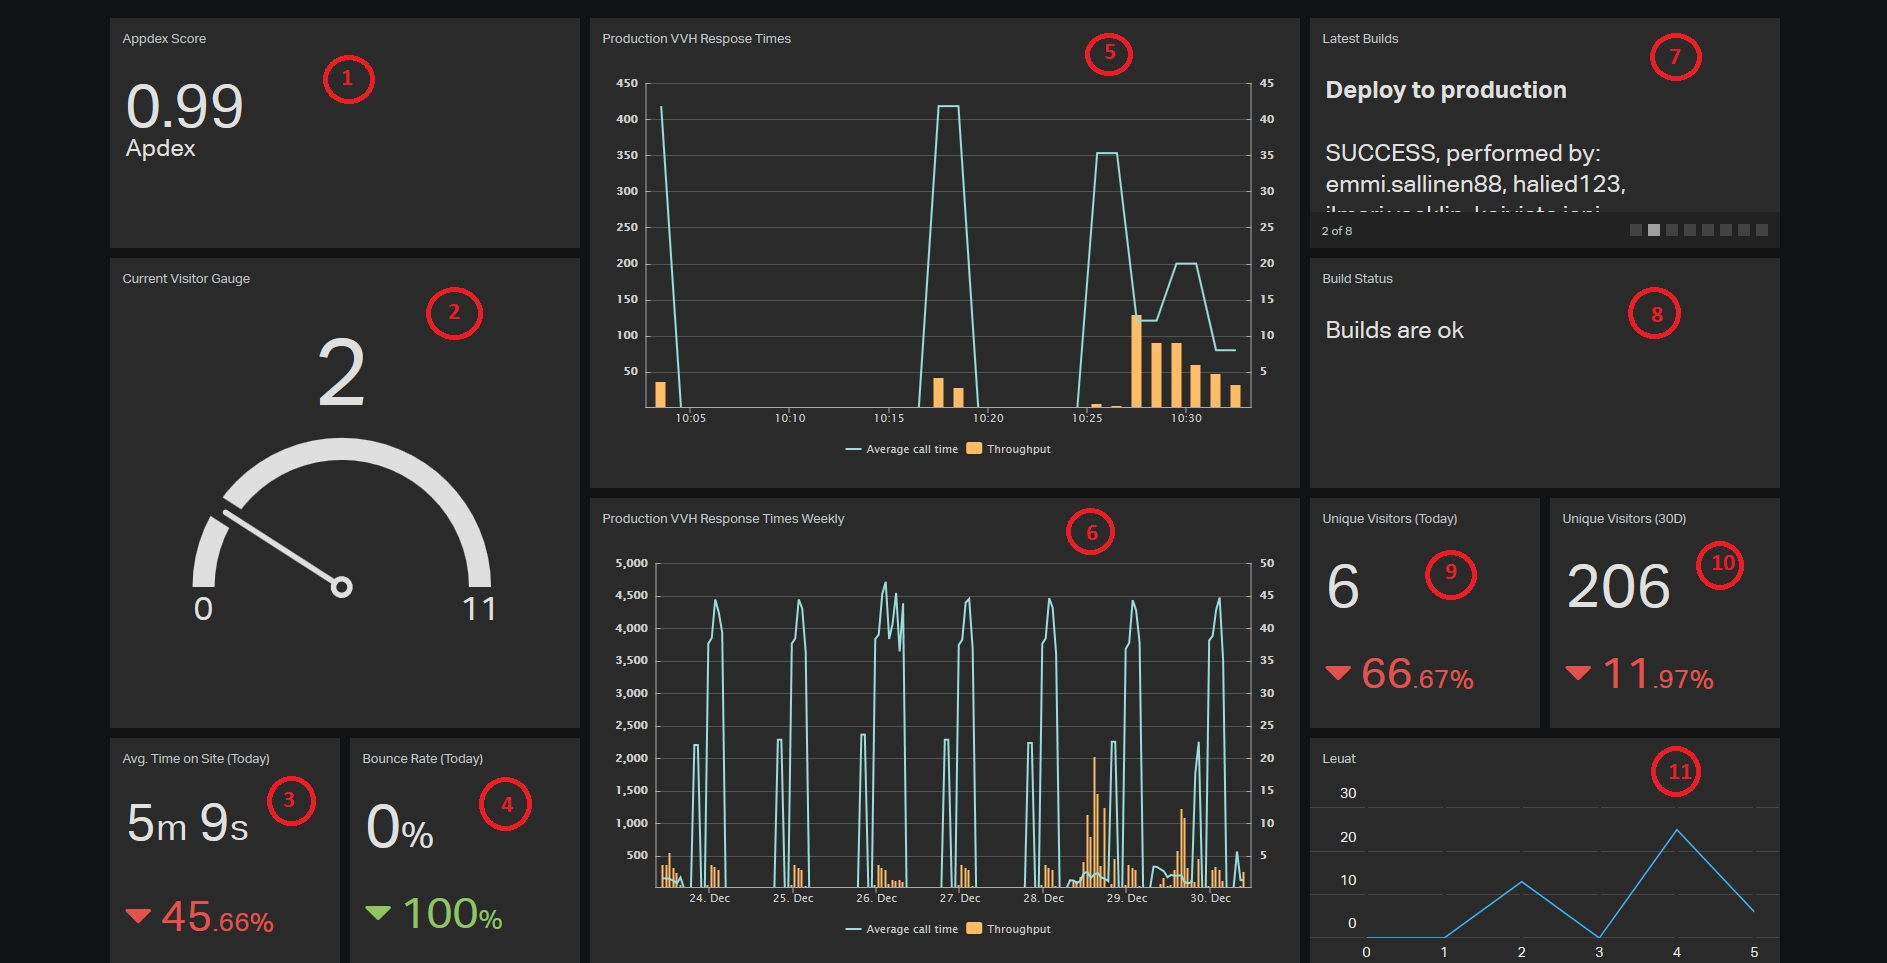
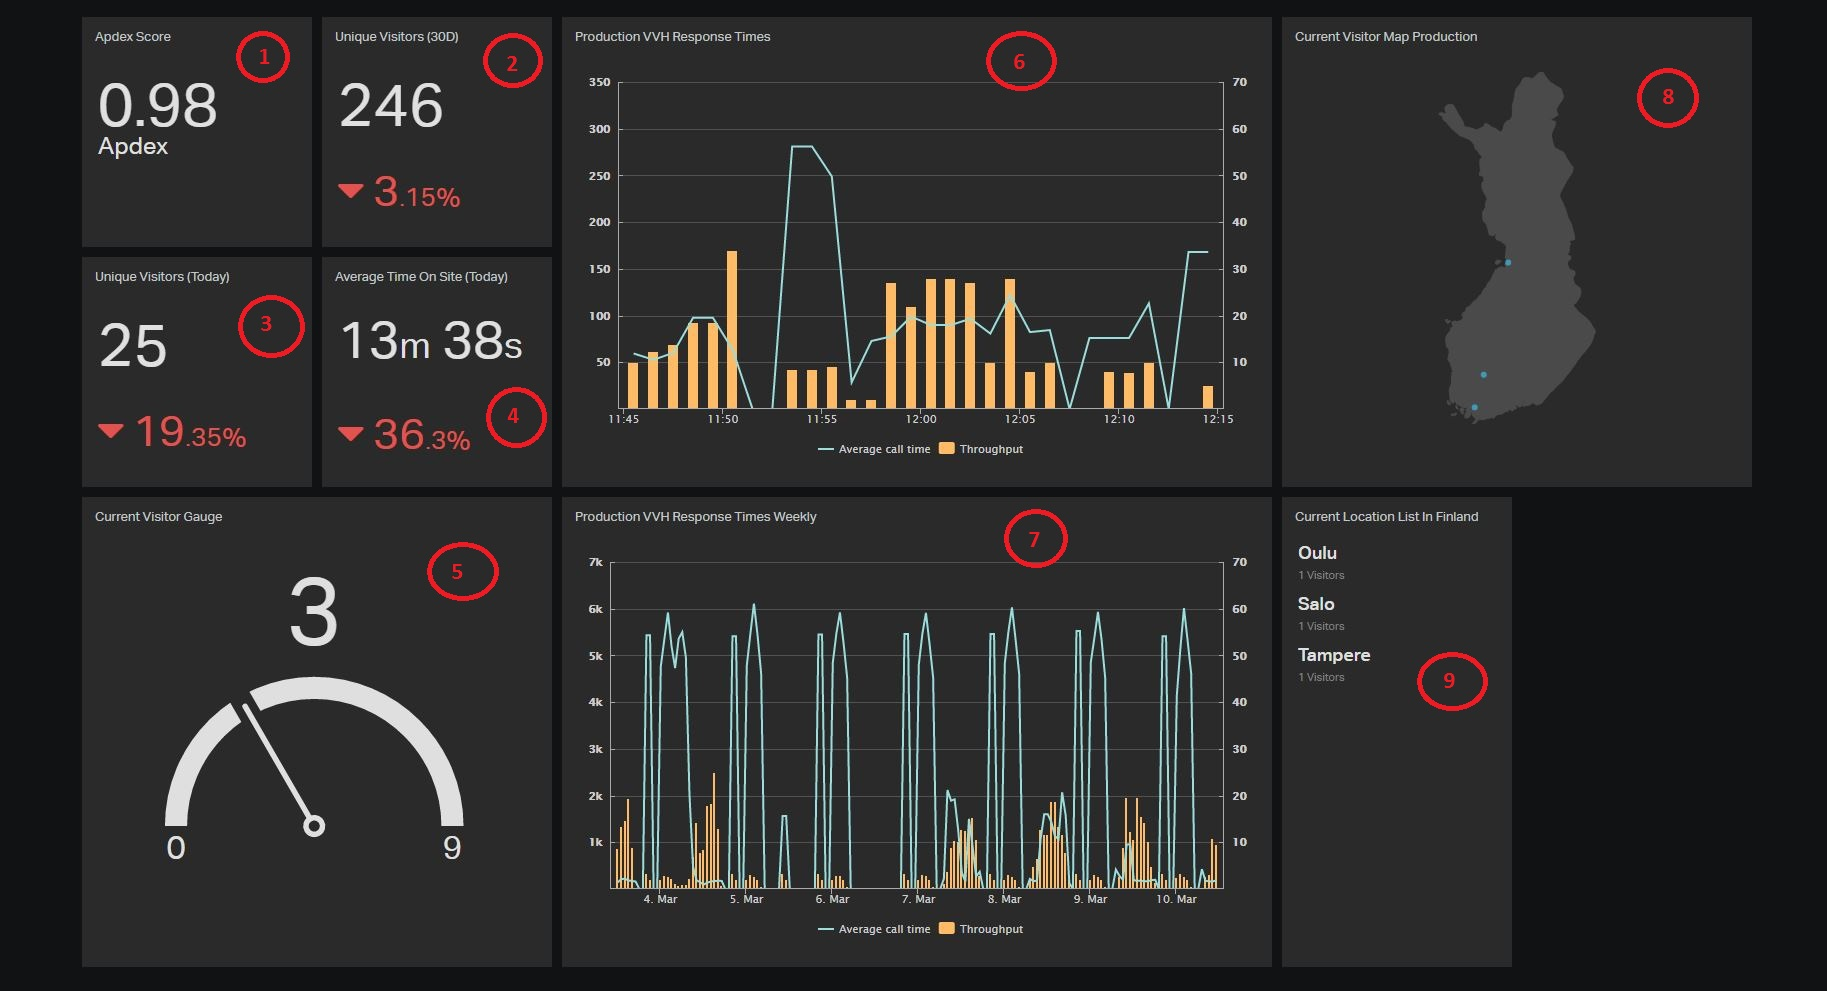
Geckoboardin päivitys Operaattorimanuaaliin

diff --git a/UI/manual/operaattorimanuaali.md b/UI/manual/operaattorimanuaali.md
@@ -187,23 +187,21 @@ Ohjeet kehitysymp&auml;rist&ouml;n asennukseen tarkemmin: https://github.com/fin
 6. Geckoboard
 -----------
 
-Digiroadin tuotantoymp&auml;rist&ouml;n tilaa voi seurata Geckoboardilta https://reaktor.geckoboard.com/dashboards/C33E233E34A644EE (ei vaadi kirjautumista). Geckoboardista voi esimerkiksi etsi&auml; apua sovelluksen hitausongelmien selvityksess&auml;. Geckoboardin sis&auml;lt&ouml; on selitetty alempana kuvassa olevien numeroiden perusteella. Tiedot ker&auml;t&auml;&auml;n New Relicist&auml;, Google Analyticsist&auml; ja Jenkinsist&auml;. New Relic monitoroi Digiroadin testikannan ja tuotantokannan tilaa. Esimerkiksi suorituskykyongelmia voi tutkia tarkemmin New Relicin avulla. New Reliciin on tunnukset operaattoripalvelussa Mika Lehtosella. Google Analyticsist&auml; kerrotaan tarkemmin kappaleessa 7. Jenkinsiin ei ole toistaiseksi p&auml;&auml;sy&auml; operaattorilla, mutta tulee my&ouml;hemmin.
+Digiroadin tuotantoymp&auml;rist&ouml;n tilaa voi seurata Geckoboardilta https://digiroad.geckoboard.com/dashboards/BCEBEC757A01731C (ei vaadi kirjautumista). Geckoboardilta voi esimerkiksi etsi&auml; apua sovelluksen hitausongelmien selvityksess&auml;. Geckoboardin sis&auml;lt&ouml; on selitetty alempana kuvassa olevien numeroiden perusteella. Tiedot ker&auml;t&auml;&auml;n New Relicist&auml; ja Google Analyticsist&auml;. New Relic monitoroi Digiroadin testikannan ja tuotantokannan tilaa. Esimerkiksi suorituskykyongelmia voi tutkia tarkemmin New Relicin avulla. New Reliciin on tunnukset operaattoripalvelussa Mika Lehtosella. Google Analyticsist&auml; kerrotaan tarkemmin kappaleessa 8.
 
 ![Geckoboard.](k166.jpg)
 
 _Geckoboardin osiot._
 
 1. Appdex Score kertoo sovelluksen suorituskyvyst&auml;. Mit&auml; l&auml;hemp&auml;n&auml; luku on 1:st&auml;, sit&auml; parempi. Noin 0.7:n kohdalla sovellus alkaa hidastella niin, ett&auml; ty&ouml;skentely vaikeutuu huomattavasti. L&auml;hde: New Relic
-2. Current Visitor Gauge kertoo t&auml;m&auml;n hetkisten aktiivisten k&auml;ytt&auml;jien lukum&auml;&auml;r&auml;n. Oikean laidan luku on k&auml;ytt&auml;jien lukum&auml;&auml;r&auml;n enn&auml;tys. L&auml;hde: Google Analytics
-3. Avg. Time on Site (today), keskim&auml;&auml;r&auml;inen vierailuaika sivulla per k&auml;ytt&auml;j&auml; t&auml;m&auml;n p&auml;iv&auml;n aikana. L&auml;hde: Google Analytics
-4. Bounce Rate (Today) ei ole kiinnostava tieto, koska Digiroad-sovellus on p&auml;&auml;asiassa yhdell&auml; sivulla. L&auml;hde: Google Analytics
-5. Production VVH Response Times on VVH:n vasteajat viimeisen puolen tunnin ajalta. Vasemman laidan asteikko on siniselle viivalle ja se on millisekunteja. Siniset piikit ja tuhansiin kohoavat millisekunnit kertovat, ett&auml; VVH:n vasteajat ovat korkeita ja sovellus todenn&auml;k&ouml;isesti on hidas. L&auml;hde: New Relic
-6. Production VVH Response Times Weekly on VVH:n vasteajat viimeisen viikon ajalta. Tarkastellaan samalla tavalla, kuin ylemp&auml;&auml; asteikkoa. Y&ouml;lliset piikit johtuvat joka&ouml;isten pys&auml;kkiexporttien tekemisest&auml;. L&auml;hde: New Relic
-7. Viimeisimm&auml;t buildit. L&auml;hde: Jenkins
-8. Buildien tilanne. L&auml;hde: Jenkins
-9. Unique Visitors (today) on p&auml;iv&auml;n yksil&ouml;lliset k&auml;vij&auml;t. L&auml;hde: Google Analytics
-10. Unique Visitors (30D) on viimeisen 30 p&auml;iv&auml;n yksil&ouml;lliset k&auml;vij&auml;t. L&auml;hde: Google Analytics
-11. Reaktorin Leuat, jepjep... :)
+2. Unique Visitors (30D) on viimeisen 30 p&auml;iv&auml;n yksil&ouml;lliset k&auml;vij&auml;t. L&auml;hde: Google Analytics
+3. Unique Visitors (today) on p&auml;iv&auml;n yksil&ouml;lliset k&auml;vij&auml;t. L&auml;hde: Google Analytics
+4. Avg. Time on Site (today), keskim&auml;&auml;r&auml;inen vierailuaika sivulla per k&auml;ytt&auml;j&auml; t&auml;m&auml;n p&auml;iv&auml;n aikana. L&auml;hde: Google Analytics
+5. Current Visitor Gauge kertoo t&auml;m&auml;n hetkisten aktiivisten k&auml;ytt&auml;jien lukum&auml;&auml;r&auml;n. Oikean laidan luku on k&auml;ytt&auml;jien lukum&auml;&auml;r&auml;n enn&auml;tys. L&auml;hde: Google Analytics
+6. Production VVH Response Times on VVH:n vasteajat viimeisen puolen tunnin ajalta. Vasemman laidan asteikko on siniselle viivalle ja se on millisekunteja. Siniset piikit ja tuhansiin kohoavat millisekunnit kertovat, ett&auml; VVH:n vasteajat ovat korkeita ja sovellus todenn&auml;k&ouml;isesti on hidas. L&auml;hde: New Relic
+7. Production VVH Response Times Weekly on VVH:n vasteajat viimeisen viikon ajalta. Tarkastellaan samalla tavalla, kuin ylemp&auml;&auml; asteikkoa. Y&ouml;lliset piikit johtuvat joka&ouml;isten pys&auml;kkiexporttien tekemisest&auml;. L&auml;hde: New Relic
+8. T&auml;m&auml;n hetkiset aktiiviset k&auml;ytt&auml;j&auml;t kartalla. L&auml;hde: Google Analytics
+9. T&auml;m&auml;n hetkiset aktiiviset k&auml;ytt&auml;j&auml;t paikkakunnittain. L&auml;hde: Google Analytics
 
 
 7. DR2:n Google-tili
